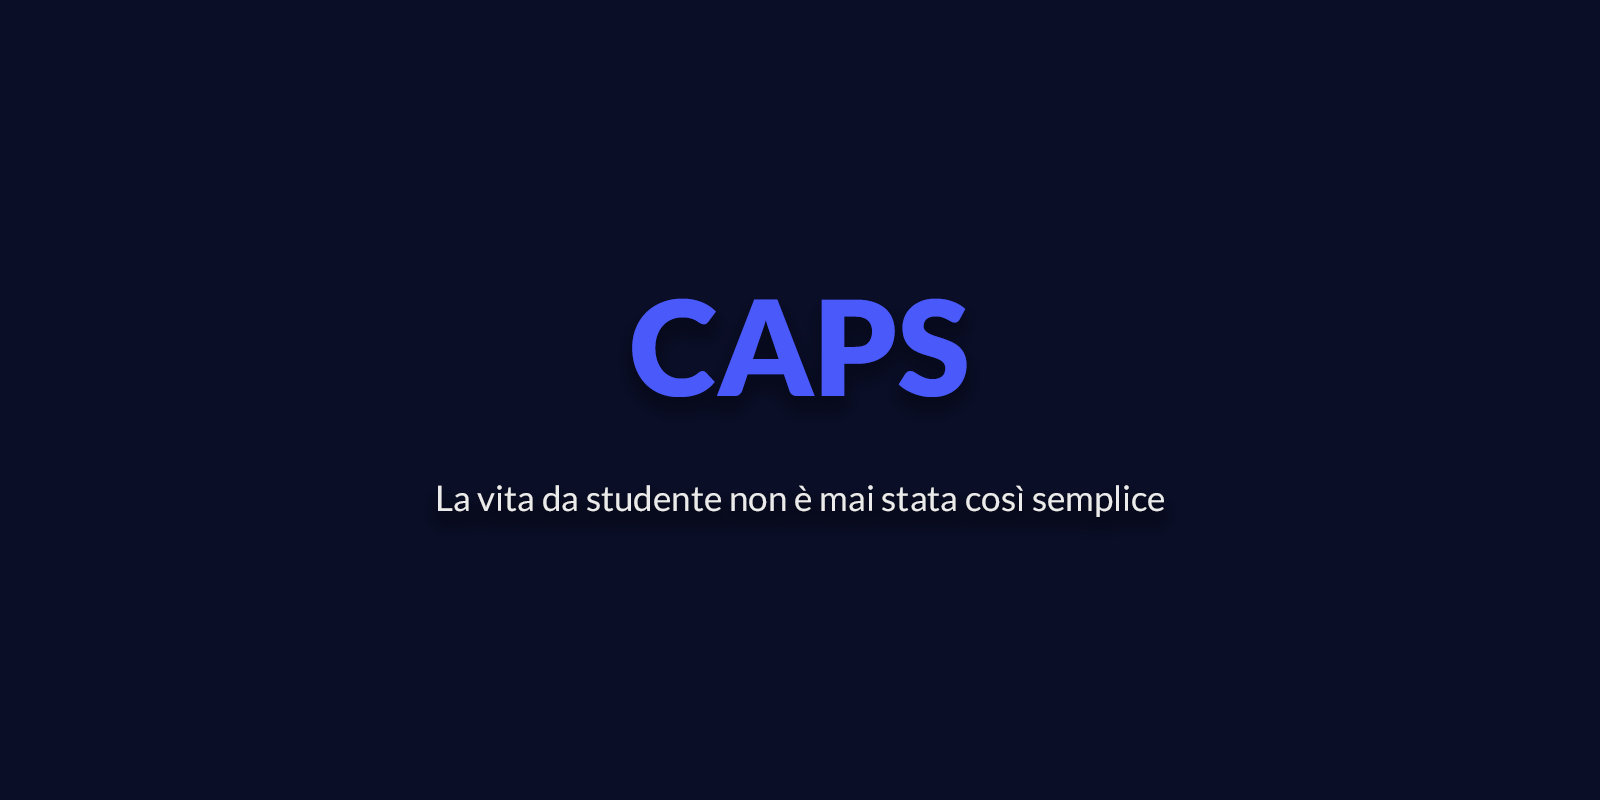
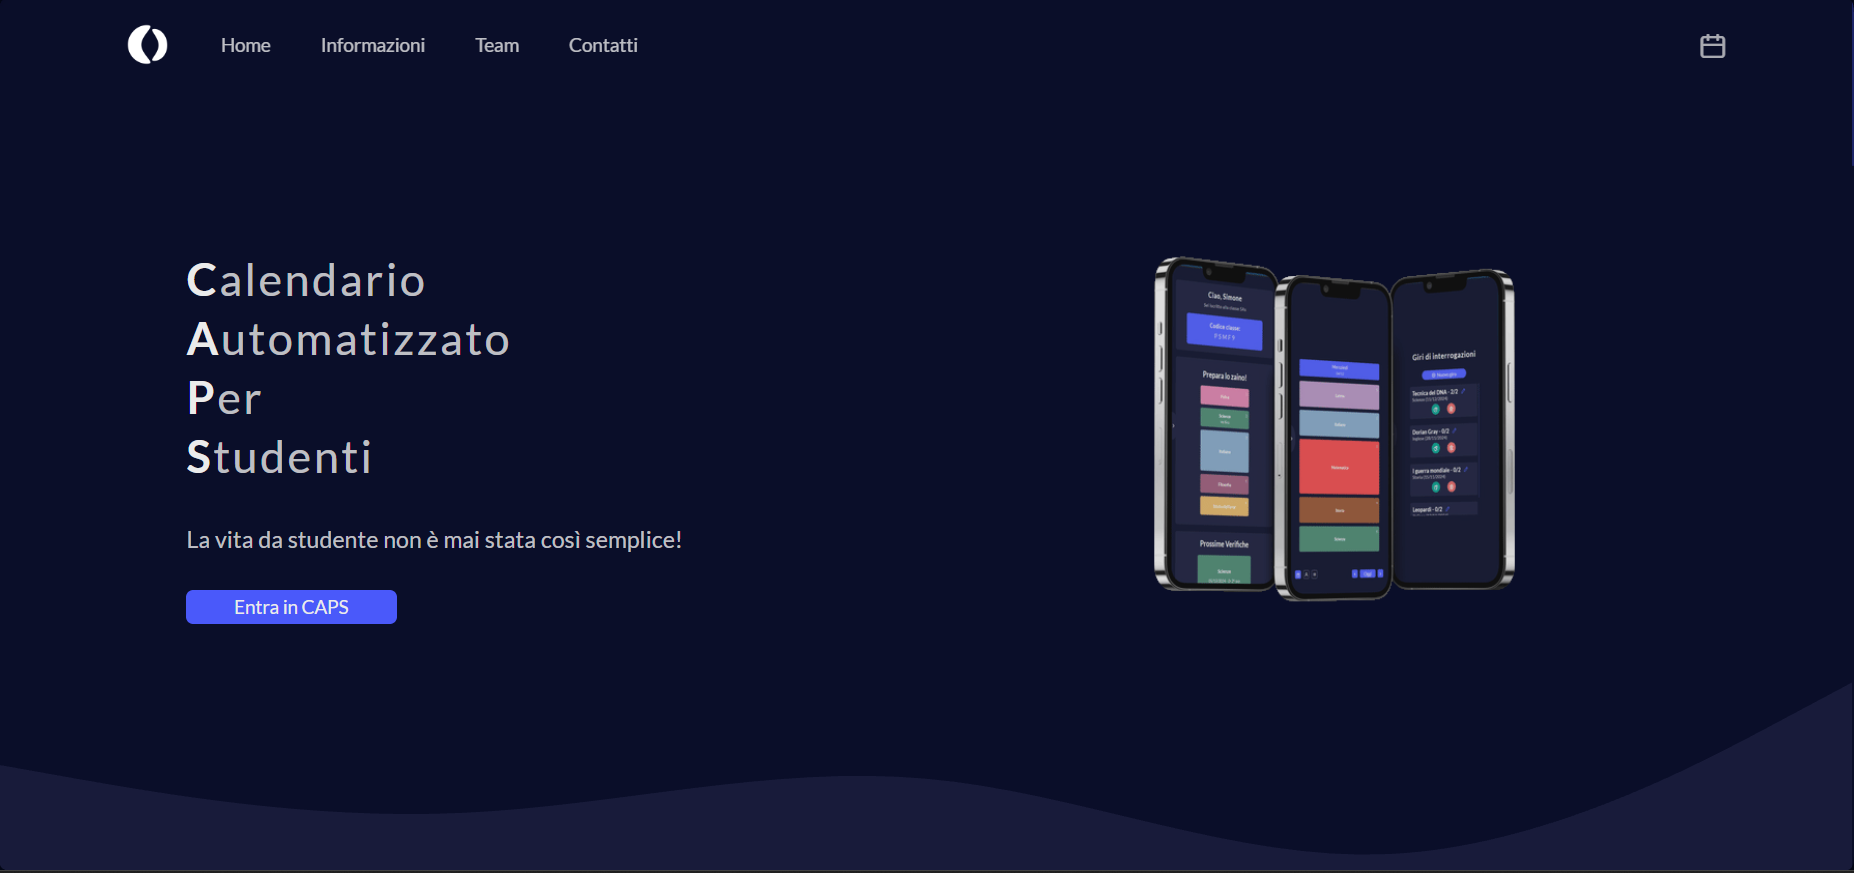
Aggiunto LMSC, migliorata la nostra storia
Aggiunto progetto Luni Mare Sporting Club e conseguentemente sistemate le dimensioni e spaziature dei progetti.
Cambiata immagine di CAPS.
Migliorate le informazioni nella nostra storia.
Inserito Alchemy tra le tecnologie usate.

diff --git a/index.html b/index.html
@@ -172,20 +172,20 @@
 
                 <p class="title">La nostra storia</p>
 
-                <p class="pharagraph">Prometheon è un collettivo di giovani sviluppatori con la passione per il web design e la programmazione. Crediamo che un sito web debba essere più di una semplice vetrina: deve raccontare un'idea, offrire un'esperienza intuitiva e risolvere problemi concreti. Per questo curiamo ogni aspetto dello sviluppo, dal design moderno e accattivante fino a un backend solido ed efficiente. Siamo in continua evoluzione, sperimentando nuove tecnologie per offrire soluzioni sempre più innovative e su misura per ogni esigenza.</p>
+                <p class="pharagraph">Prometheon è un gruppo di giovani sviluppatori con la passione per il web design e la programmazione e che si diletta nella realizzazione di siti vetrina e gestionali per aziende sotto forma di web app. Crediamo che un sito web debba essere più di una semplice vetrina: deve raccontare un'idea, offrire un'esperienza intuitiva e risolvere problemi concreti. Per questo curiamo ogni aspetto dello sviluppo, dal design moderno e accattivante fino a un backend solido ed efficiente. Siamo in continua evoluzione, sperimentando nuove tecnologie per offrire soluzioni sempre più innovative e su misura per ogni esigenza.</p>
 
                 <div class="stats">
 
                     <div class="data">
 
-                        <p class="number">5+</p>
+                        <p class="number">10+</p>
                         <p class="desc">Progetti sviluppati</p>
 
                     </div>
 
                     <div class="data">
 
-                        <p class="number">10k+</p>
+                        <p class="number">100k+</p>
                         <p class="desc">Righe di codice</p>
 
                     </div>
@@ -221,6 +221,7 @@
 
                     <img src="assets/img/tech/python.png" alt="Python" draggable="false">
                     <img src="assets/img/tech/mysql.png" alt="MySQL" draggable="false">
+                    <img src="assets/img/tech/alchemy.png" alt="Alchemy" draggable="false">
                     <img src="assets/img/tech/html.png" alt="HTML" draggable="false">
                     <img src="assets/img/tech/css.png" alt="CSS" draggable="false">
                     <img src="assets/img/tech/js.png" alt="Javascript" draggable="false">
@@ -241,6 +242,7 @@
                     <p class="separator">&bull;</p>
 
                     <img src="assets/img/tech/python.png" alt="Python" draggable="false">
+                    <img src="assets/img/tech/alchemy.png" alt="Alchemy" draggable="false">
                     <img src="assets/img/tech/mysql.png" alt="MySQL" draggable="false">
                     <img src="assets/img/tech/html.png" alt="HTML" draggable="false">
                     <img src="assets/img/tech/css.png" alt="CSS" draggable="false">
@@ -265,7 +267,7 @@
             <p class="toptitle">scopri il nostro lavoro</p>
             <p class="title">Progetti</p>
 
-            <div class="filters">
+            <div class="filters hide">
 
                 <div class="clickable filter active" onclick="filter_projects(0)">Tutti</div>
                 <div class="clickable filter" onclick="filter_projects('Site')">Siti Web</div>
@@ -281,6 +283,18 @@
                     <div class="shadow">
 
                         <p class="name">CAPS</p>
+
+                    </div>
+
+                </div>
+
+                <div class="project clickable" data-filter="Site" data-href="https://www.lunimaresportingclub.it/">
+
+                    <img src="assets/img/projects/lmsc_screen.png" alt="Screenshot del sito di Luni Mare Sporting Club" draggable="false">
+
+                    <div class="shadow">
+
+                        <p class="name">Luni Mare Sporting Club</p>
 
                     </div>
 

diff --git a/style/style-lg.css b/style/style-lg.css
@@ -555,10 +555,10 @@ body.home {
 }
 
 #proj .project {
-    width: 300px;
+    width: 430px;
     aspect-ratio: 2;
-    margin: 20px 15px;
-    border: 3px solid var(--clr-accent);
+    margin: 20px 10px;
+    border: 2px solid var(--clr-accent);
     overflow: hidden;
     border-radius: 10px;
     transition: var(--transition);
